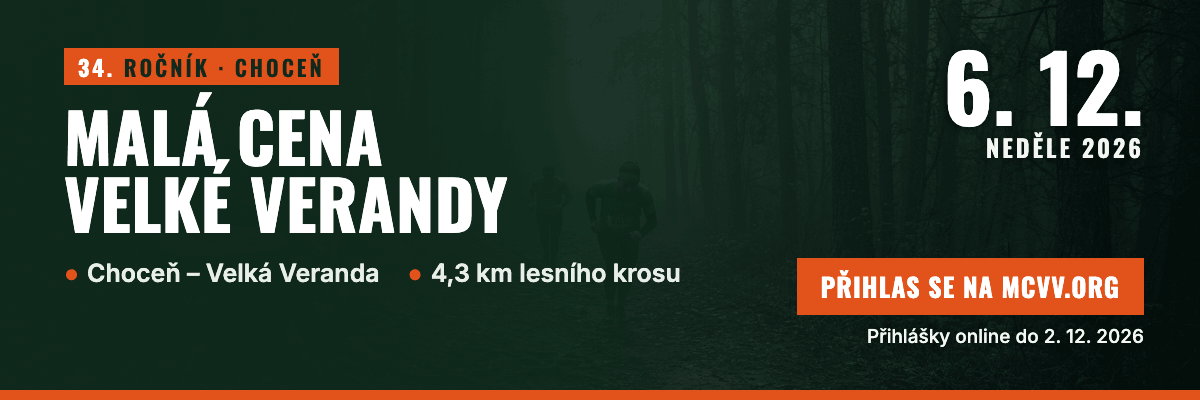
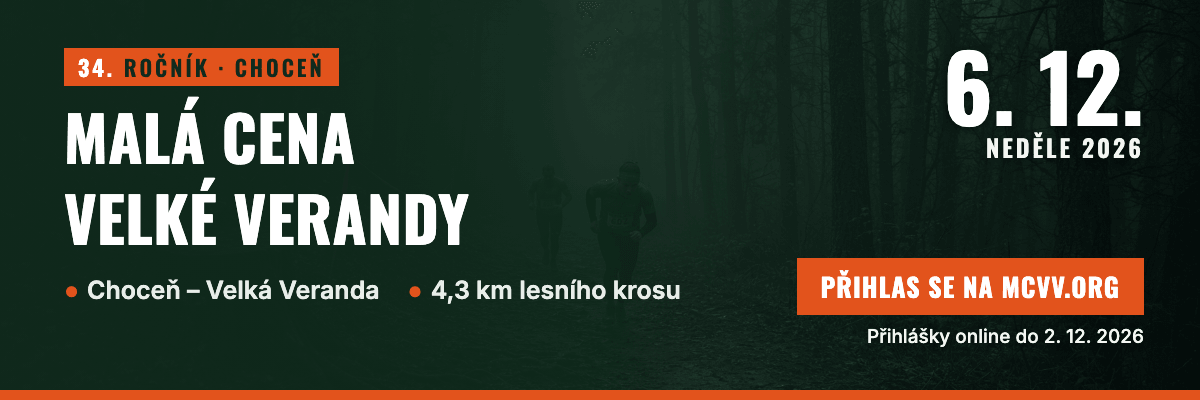
fix(newsletter): diakritika v nadpisu výchozího banneru 2026
Nadpis měl line-height 0.98, takže vysoká čárka nad É z druhého řádku
(VELKÉ) sahala k účaří prvního řádku pod mezeru za MALÁ a četla se jako
„MALÁ, CENA“. Nadpis má teď 62px/1.32, texty jsou předsložené (NFC) rovnou
verzálkami bez text-transform a fonty se načítají i s latin-ext.

Test hlídá NFC, latin-ext a výšku řádku nadpisu ≥ 1.3.

Changed region(s): [[0.0308, 0.21, 0.4317, 0.63], [0.0308, 0.66, 0.5858, 0.75]]

diff --git a/scripts/newsletter-banner/banner-2026.html b/scripts/newsletter-banner/banner-2026.html
@@ -2,9 +2,11 @@
 <html lang="cs">
   <head>
     <meta charset="utf-8" />
-    <!-- Zdroj výchozího banneru newsletteru (public/images/newsletter/banner-2026.png). Vykreslit v Chrome/Playwright: viewport 1200×400, deviceScaleFactor 1, pak PNG s paletou (sharp: palette, quality 92). -->
+    <!-- Zdroj výchozího banneru newsletteru (public/images/newsletter/banner-2026.png). Vykreslit v Chrome/Playwright: viewport 1200×400, deviceScaleFactor 1, pak PNG s paletou (sharp: palette, quality 92).
+         Texty jsou předsložené (NFC) a rovnou verzálkami; Oswald i Inter se načítají i v podmnožině latin-ext (Ř, Ě, Ň, Č…).
+         Výška řádku nadpisu musí nechat místo pro diakritiku: při menší line-height než ~1.3 sahá vysoká čárka nad É z druhého řádku až k účaří prvního a pod mezerou za MALÁ vypadá jako čárka („MALÁ, CENA“). -->
     <link
-      href="https://fonts.googleapis.com/css2?family=Oswald:wght@500;600;700&family=Inter:wght@400;500;600;700&display=block"
+      href="https://fonts.googleapis.com/css2?family=Oswald:wght@500;600;700&family=Inter:wght@400;500;600;700&subset=latin,latin-ext&display=block"
       rel="stylesheet"
     />
     <style>
@@ -62,28 +64,27 @@
       .kicker {
         display: inline-block;
         font:
-          600 22px/1 Oswald,
+          600 22px/1.3 Oswald,
           sans-serif;
         letter-spacing: 3px;
-        text-transform: uppercase;
         color: #0f2a1c;
         background: #e2531c;
-        padding: 8px 14px 7px;
+        padding: 5px 14px 4px;
       }
       .kicker b {
         color: #fff;
         font-weight: 700;
       }
       h1 {
-        margin-top: 18px;
+        margin-top: 8px;
+        padding-top: 2px;
         font:
-          700 68px/0.98 Oswald,
+          700 62px/1.32 Oswald,
           sans-serif;
         letter-spacing: 0.5px;
-        text-transform: uppercase;
       }
       .meta {
-        margin-top: 22px;
+        margin-top: 16px;
         display: flex;
         gap: 28px;
         font:
@@ -108,13 +109,12 @@
       .cta .btn {
         display: inline-block;
         font:
-          700 26px/1 Oswald,
+          700 26px/1.25 Oswald,
           sans-serif;
         letter-spacing: 1px;
-        text-transform: uppercase;
         background: #e2531c;
         color: #fff;
-        padding: 16px 24px 15px;
+        padding: 13px 24px 12px;
       }
       .cta .note {
         margin-top: 10px;
@@ -141,7 +141,6 @@
           600 24px/1.2 Oswald,
           sans-serif;
         letter-spacing: 3px;
-        text-transform: uppercase;
         color: #f2f6f1;
         margin-top: 6px;
       }
@@ -152,18 +151,18 @@
       <div class="photo"></div>
       <div class="shade"></div>
       <div class="c">
-        <div class="kicker"><b>34.</b> ročník · Choceň</div>
-        <h1>Malá cena<br />Velké Verandy</h1>
+        <div class="kicker"><b>34.</b> ROČNÍK · CHOCEŇ</div>
+        <h1>MALÁ CENA<br />VELKÉ VERANDY</h1>
         <div class="meta">
           <span><i>●</i>Choceň – Velká Veranda</span><span><i>●</i>4,3 km lesního krosu</span>
         </div>
       </div>
       <div class="date">
         <div class="d">6. 12.</div>
-        <div class="w">neděle 2026</div>
+        <div class="w">NEDĚLE 2026</div>
       </div>
       <div class="cta">
-        <div class="btn">Přihlas se na mcvv.org</div>
+        <div class="btn">PŘIHLAS SE NA MCVV.ORG</div>
         <div class="note">Přihlášky online do 2. 12. 2026</div>
       </div>
       <div class="bar"></div>

diff --git a/src/lib/newsletter/banner.test.ts b/src/lib/newsletter/banner.test.ts
@@ -96,6 +96,15 @@ describe("newsletter banner – choice, alt and link", () => {
       assert.ok(readFileSync(file).length < 300 * 1024, "banner should stay small for e-mail");
     }
   });
+  it("banner source keeps Czech diacritics readable (NFC, latin-ext, roomy headline)", () => {
+    const html = readFileSync(join(ROOT, "scripts/newsletter-banner/banner-2026.html"), "utf8");
+    assert.equal(html, html.normalize("NFC"));
+    assert.doesNotMatch(html, /[\u0300-\u036f]/);
+    assert.match(html, /subset=latin,latin-ext/);
+    // Při menší výšce řádku sahá čárka nad É (2. řádek) k účaří 1. řádku a čte se jako „MALÁ, CENA“.
+    const h1 = /h1 \{[^}]*?(\d+)px\/([\d.]+) Oswald/.exec(html);
+    assert.ok(h1 && Number(h1[2]) >= 1.3, "headline line-height must be >= 1.3");
+  });
 });
 
 describe("newsletter banner – template", () => {
